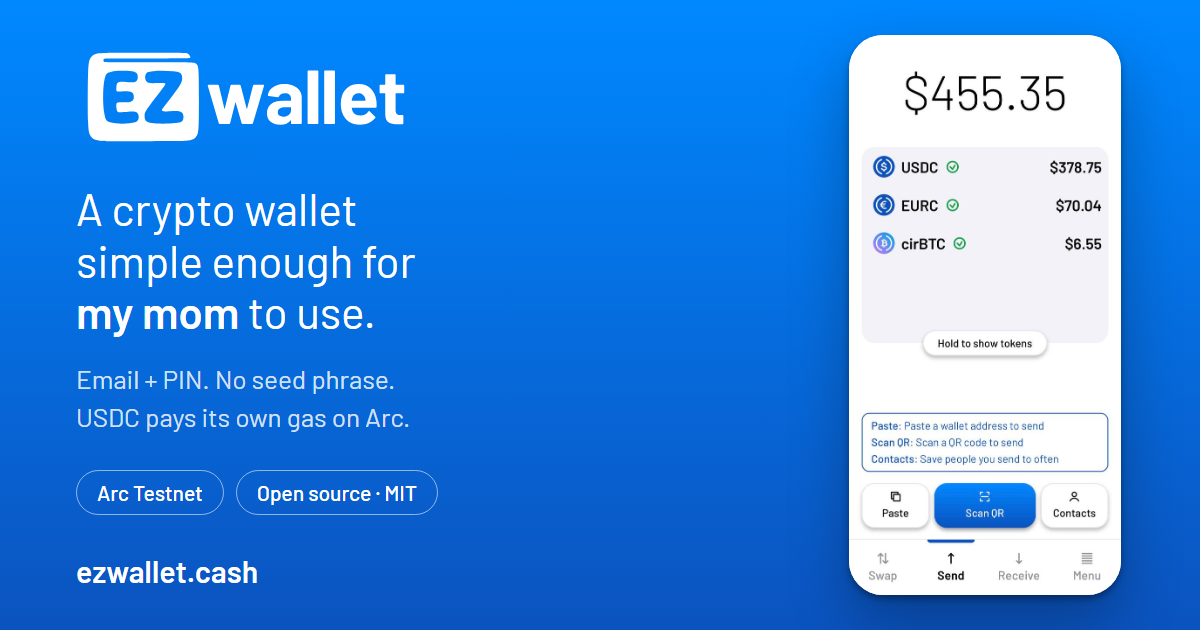
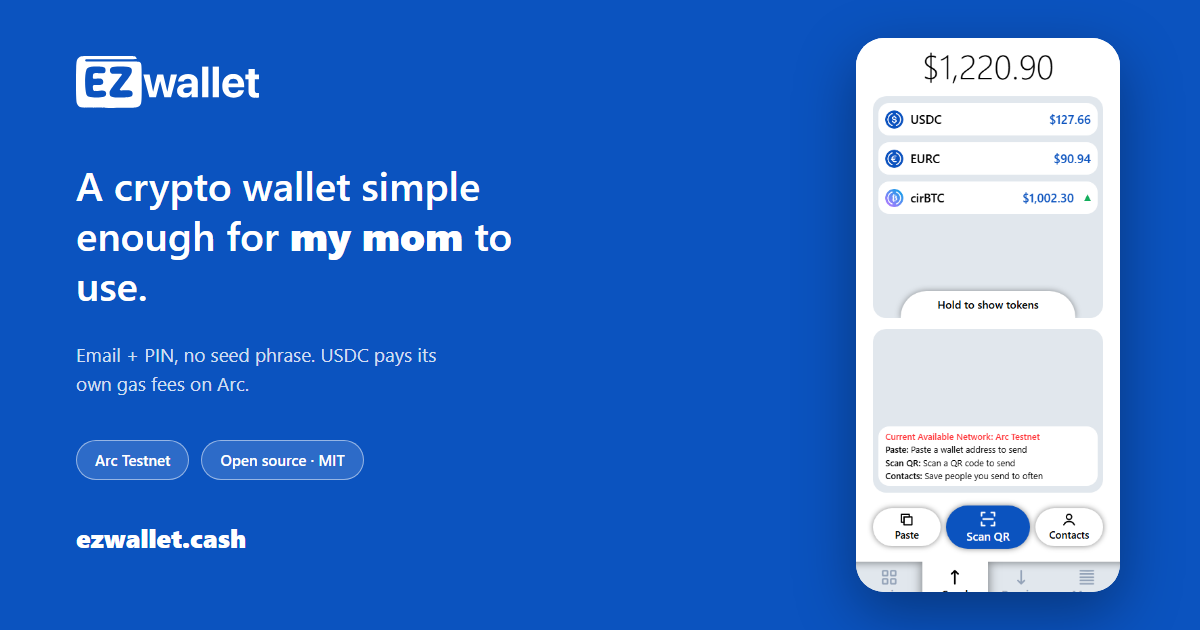
Rebuild og.png with a solid background instead of the old gradient
User confirmed solid (matching the redesign's "no more gradients"
rule). New 1200x630 card: solid #0B53BF fill, the current logo.svg
forced white via a CSS filter, and a real HomeSend screenshot from the
just-rebuilt docs/ set. Bumped og.png?v=2 -> ?v=3.

diff --git a/index.html b/index.html
@@ -21,7 +21,7 @@
     <meta property="og:url" content="https://ezwallet.cash/" />
     <meta property="og:title" content="EZwallet – a crypto wallet simple enough for my mom to use" />
     <meta property="og:description" content="Email + PIN, no seed phrase. USDC pays its own gas on Arc. Swap by dragging a slider. Live on Arc Testnet." />
-    <meta property="og:image" content="https://ezwallet.cash/og.png?v=2" />
+    <meta property="og:image" content="https://ezwallet.cash/og.png?v=3" />
     <meta property="og:image:width" content="1200" />
     <meta property="og:image:height" content="630" />
     <meta property="og:image:alt" content="EZwallet – email + PIN crypto wallet on Arc" />
@@ -30,7 +30,7 @@
     <meta name="twitter:creator" content="@0xhieuxyz" />
     <meta name="twitter:title" content="EZwallet – a crypto wallet simple enough for my mom to use" />
     <meta name="twitter:description" content="Email + PIN, no seed phrase. USDC pays its own gas on Arc. Swap by dragging a slider. Live on Arc Testnet." />
-    <meta name="twitter:image" content="https://ezwallet.cash/og.png?v=2" />
+    <meta name="twitter:image" content="https://ezwallet.cash/og.png?v=3" />
 
     <!-- NO WEBFONT (2026-09-07, brand guideline: system font stack only). This is where Barlow used to
          load from Google Fonts, along with 2 preconnects to fonts.googleapis.com/fonts.gstatic.com -

diff --git a/HANDOFF.md b/HANDOFF.md
@@ -796,7 +796,7 @@ decision one day after it shipped**. What actually changed 09-08:
 |---|---|---|
 | `design/pfp.png` | ✅ Added (dropped via Desktop, same day) | done |
 | README screenshots | ✅ Rebuilt (4-image grid, Playwright/mock, see the Brand assets section) | done |
-| `public/og.png` | ❌ Still the OLD UI/gradient (built from the now-deleted `docs/app-home.jpg`) | Needs the user's call on gradient-vs-solid before rebuilding - see the note in Brand assets |
+| `public/og.png` | ✅ Rebuilt - solid `#0B53BF`, no gradient, new screenshot | done |
 | Circle PIN: no auto-clear on wrong PIN · mobile keyboard needs a tap | **Cannot be fixed here** - see the ⛔ CIRCLE'S PIN SCREEN note in section 9 for the full API evidence | Only Circle can fix it; report alongside the `common.showPin` issue already raised |
 | `.scroll-thin` inside a grey box | Fixed on `HomeSend`; **`Contacts.jsx` and `TxHistory.jsx` still have it** | Smaller effect there (their boxes' padding is 16px/14px so the -8px push shrinks the right inset rather than zeroing it). Swap to `.scroll-hidden` when touching those screens |
 | Everything below in this section | Unchanged from the previous session | - |
@@ -1025,11 +1025,13 @@ quan và ngắn gọn") - captured fresh via Playwright in mock mode (`?screen=<
 pre-redesign set. Deliberately CONCISE per that instruction: ONE 4-image grid (`docs/app-send.png` ·
 `app-receive.png` · `app-swap.png` · `app-luckypot.png`), not the old 2-section layout (4 GIFs + 6 stills).
 No GIFs this round - stills only, faster to keep in sync with a UI that is still actively changing.
-⚠ `public/og.png` is UNCHANGED and still wrong - it was built (07-29) from `docs/app-home.jpg`, which
-was deleted with the rest of the pre-redesign screenshots, so the card still shows the OLD UI/gradient.
-Not rebuilt this round (a design call - gradient background vs. the current solid-colour-only brand -
-that needs the user's direction, not an assumption). Rebuild it from one of the new screenshots + the new
-solid-blue brand treatment when asked, then bump `og.png?v=2` → `?v=3`.
+**`public/og.png` REBUILT 2026-09-11 (user confirmed: "nền đặc" = solid background, not the old gradient).**
+New template (rendered with Playwright from an inline HTML string, no more `C:\tmp\ezw-verify\...` - that
+path is gone): solid `#0B53BF` fill (no gradient - matches the redesign's "no more gradients" rule),
+`design/logo.svg` forced white via CSS `filter: brightness(0) invert(1)` (no separate white-logo file
+exists, so every future og-card rebuild should do the same rather than hand-drawing a white variant), the
+same tagline/pills/URL copy as before, and a REAL screenshot (`docs/app-send.png`, the new one) in a
+rounded phone frame on the right. Bumped `og.png?v=2` → `?v=3`.
 
 > 🎨 **Design: the user does the UI themselves, and draws the icons themselves (viewBox 100, stroke 10).** Do not redesign on your own; wait for the user's direction and then port it. The aesthetic reference: Coinbase Wallet - big light numbers, pale tiles, plenty of breathing room.
 
